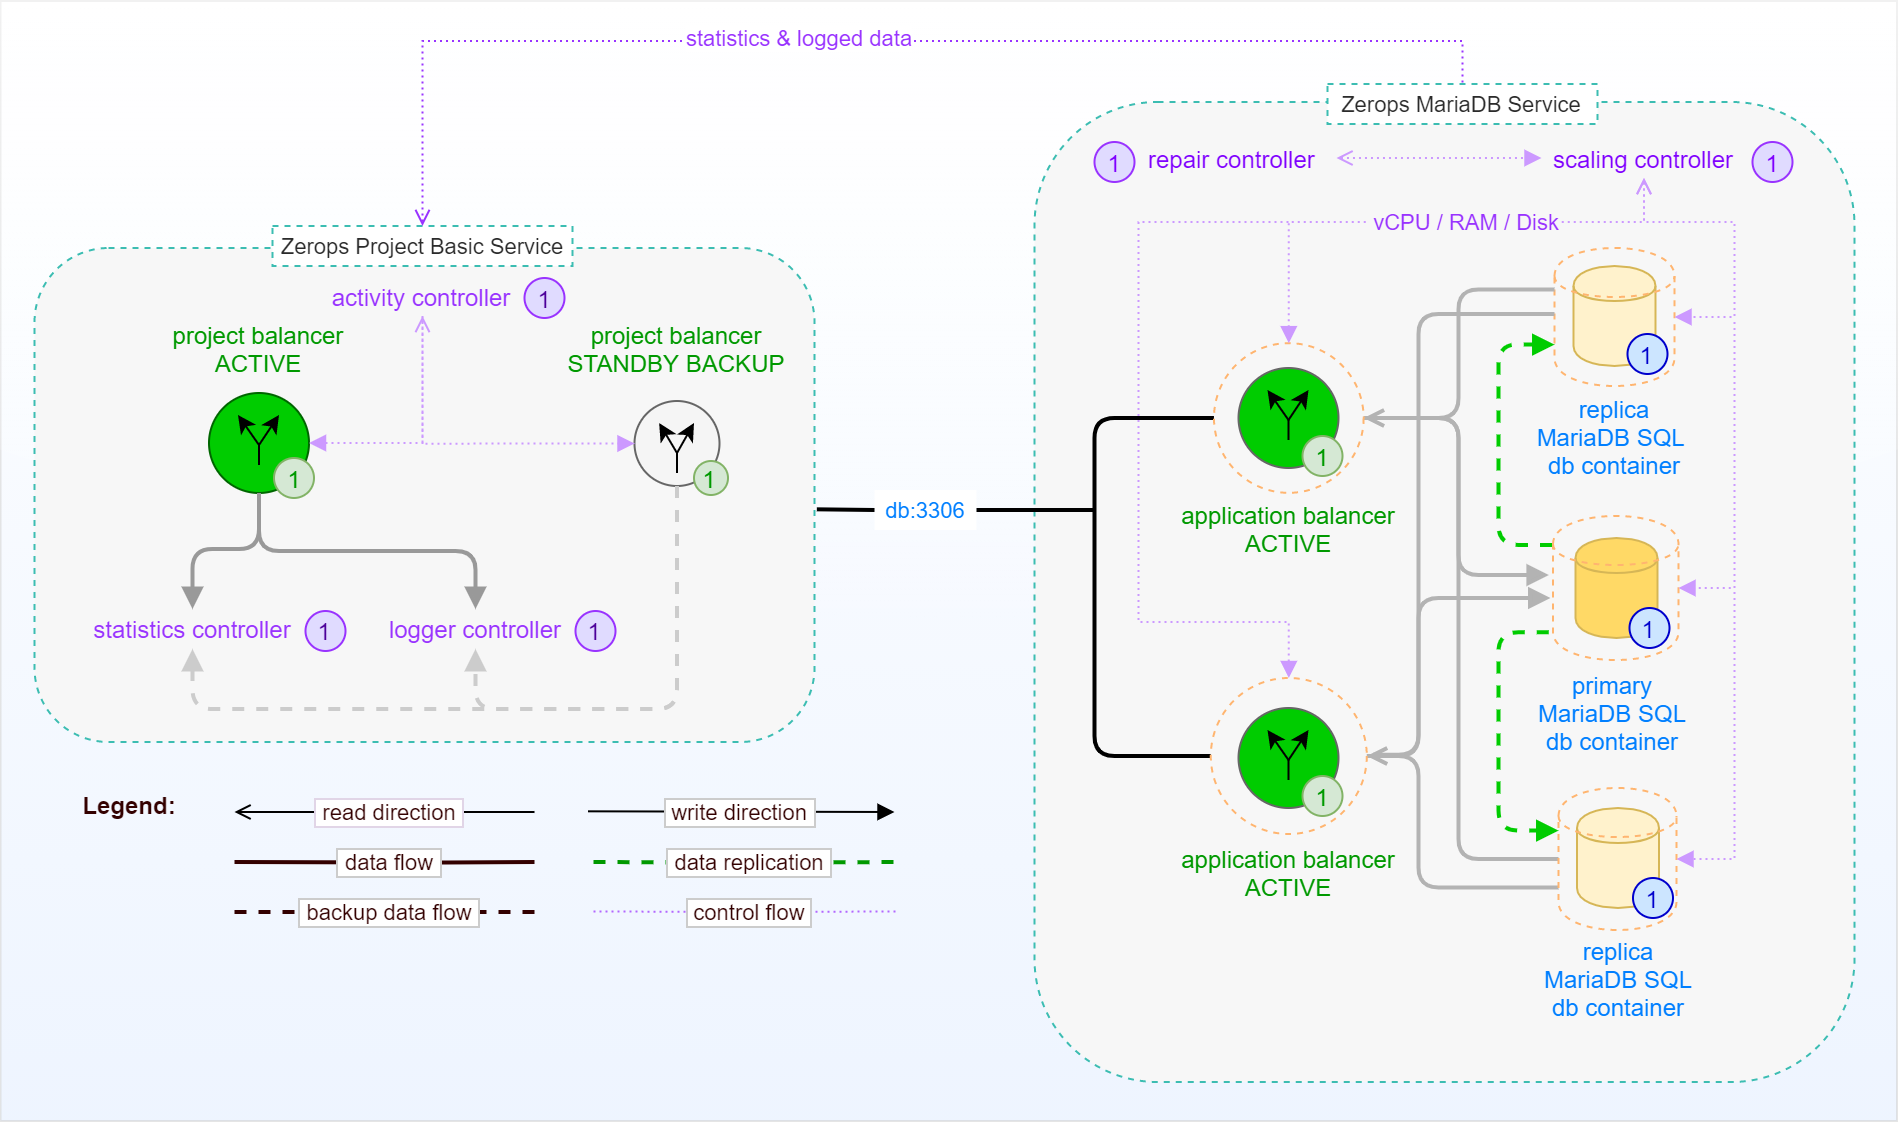
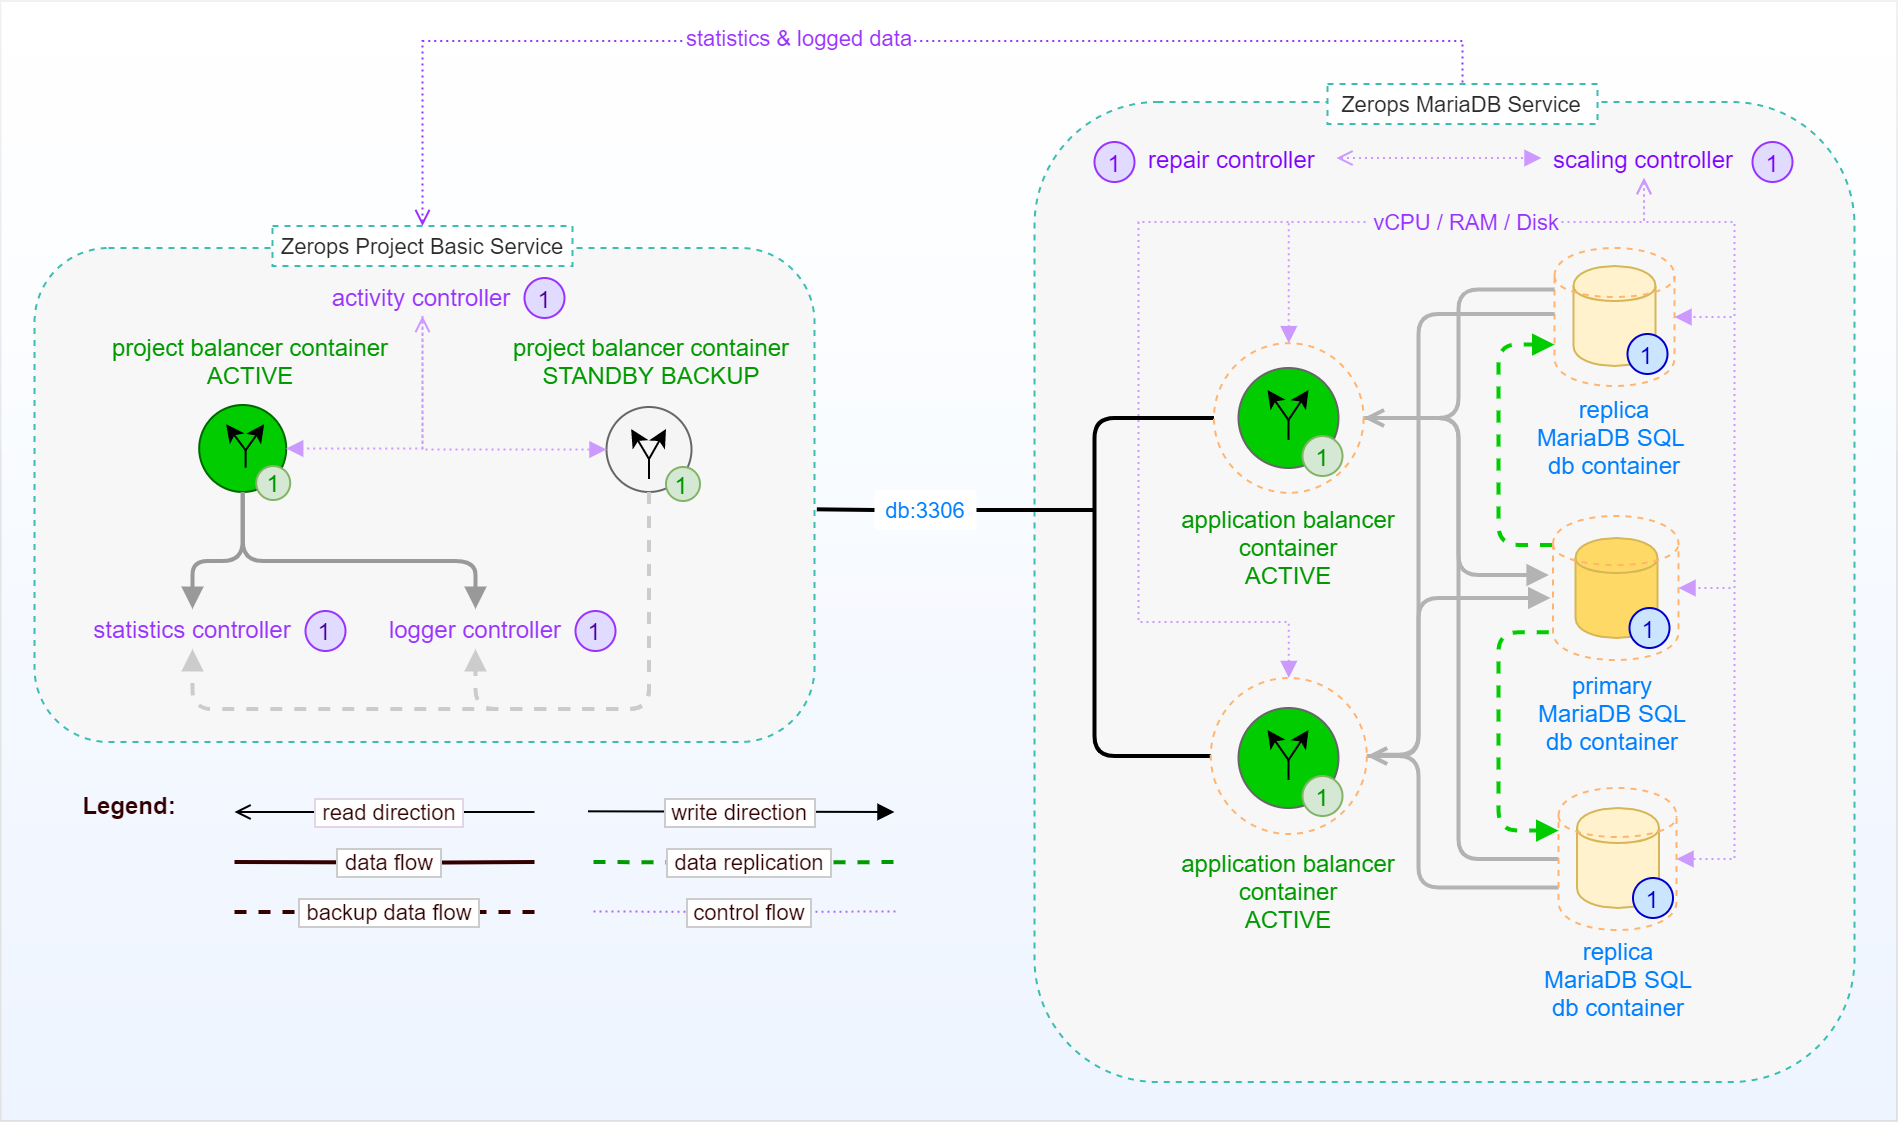
docs(service): HA of MariaDB service

diff --git a/src/documentation/services/databases.md b/src/documentation/services/databases.md
@@ -8,11 +8,13 @@ Information on the compatibility of MariaDB software with similar, competing sof
 :::
 <!-- markdownlint-enable DOCSMD004 -->
 
-The following image shows a simplified schema of a standalone Zerops MariaDB Service in HA mode with no access from the external environment. It means access from outside of Zerops project infrastructure, like access from the Internet. There is only native access through default port 3306 from the Zerops Project Basic Service itself, representing the core of a user-defined project inside Zerops.
+The following image shows a simplified schema of a standalone Zerops MariaDB Service in HA mode with no access from the external environment. It means access from outside of Zerops project infrastructure, like access from the Internet. There is only native access through a private network using a default port 3306 from the Zerops Project Basic Service itself, representing the core of a user-defined project inside Zerops.
 
 ![Zerops MariaDB Service](./images/Zerops-MariaDB-Service-Base.png "Zerops MariaDB Service")
 
-Zerops Project Basic Service is the hearth of each Zerops project. It has its own [pricing logic](/documentation/overview/pricing.html#projects). Zerops MariaDB Service shares the [same price structure](/documentation/overview/pricing.html#services) with other Zerops services.
+Zerops Project Basic Service is the hearth of each Zerops project. It has its own [pricing logic](/documentation/overview/pricing.html#projects). The essential parts are two running instances of the **project balancer** (one at the active state and the other at standby backup state) through which all communication is passing (either related to the project's external environment or the private network), which ensures a high degree of reliability and stability for all traffic at any time. Each of them runs in a different container located on a **different physical machine**. An independent **activity controller** continuously monitors critical operating parameters of both project balancers. If the current active instance has any abnormalities, it activates the running standby backup instead. From an external perspective, this change is not noticeable in any way.
+
+Zerops MariaDB Service shares the [same price structure](/documentation/overview/pricing.html#services) with other Zerops services. Here again, two instances of the **[application balancer](https://mariadb.com/kb/en/maxscale)** (both at the active state) play a crucial role and parallelly control the routing of data reading requests, always to the least busy instance of the MariaDB database service or data writing requests to the primary one. Each of them runs in a different container located on a **different physical machine**. The independent scaling controller monitors and controls [vertical scaling](/documentation/automatic-scaling/how-automatic-scaling-works.html#vertical-scaling) (vCPU, RAM, Disk) for application balancers and MariaDB database instances and [horizontal scaling](/documentation/automatic-scaling/how-automatic-scaling-works.html#horizontal-scaling) (number of containers) for MariaDB database instances. The independent repair controller is then responsible for removing those containers that exhibit abnormal behavior and replacing them with new ones.
 
 ![Zerops MariaDB Service](./images/Zerops-MariaDB-Service-Detail.png "Zerops MariaDB Service")
 
